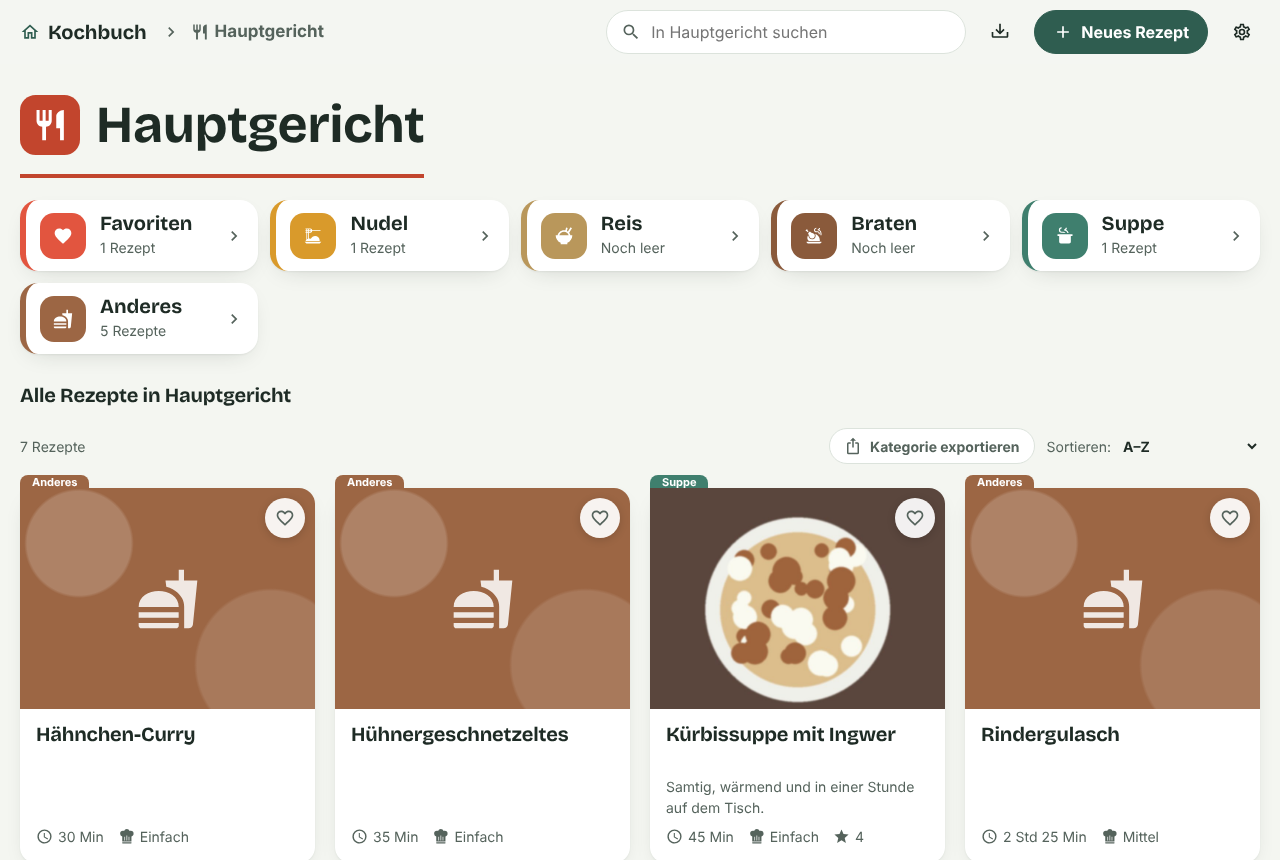
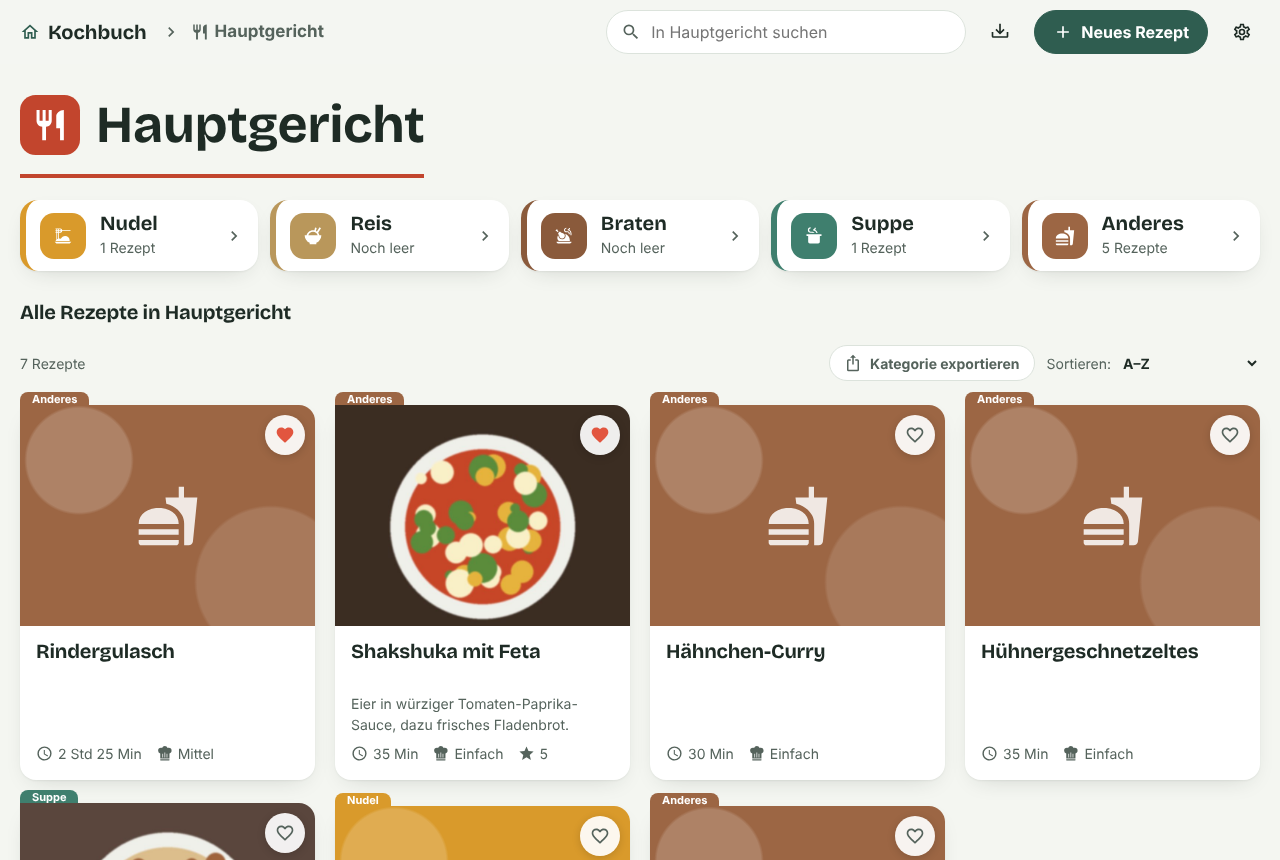
Kochbuch 1.7.2: Favoriten oben statt eigener Kachel
Claude-Session: https://claude.ai/code/session_01DF6XX5kd56oiDmByM1R25Q

diff --git a/custom_components/kochbuch/frontend/kochbuch-panel.js b/custom_components/kochbuch/frontend/kochbuch-panel.js
@@ -1,7 +1,7 @@
 /* Kochbuch – Panel für Home Assistant
  * https://github.com/domiundergroun/Kochrezepte
  */
-const KB_VERSION = "1.7.1";
+const KB_VERSION = "1.7.2";
 
 /* ------------------------------------------------------------------ Hilfen */
 const esc = (v) =>
@@ -1062,7 +1062,9 @@ class KochbuchPanel extends HTMLElement {
       rating: (a, b) => (b.rating || 0) - (a.rating || 0) || a.title.localeCompare(b.title, "de"),
       cooked: (a, b) => (b.cooked || []).length - (a.cooked || []).length,
     };
-    return list.sort(sorts[this.sort] || sorts.title);
+    // Favoriten stehen immer oben, darunter die gewählte Sortierung
+    const by = sorts[this.sort] || sorts.title;
+    return list.sort((a, b) => (b.favorite ? 1 : 0) - (a.favorite ? 1 : 0) || by(a, b));
   }
 
   _slug(filter) { return { all: "alle", fav: "favoriten", none: "ohne" }[filter] || filter; }
@@ -1139,9 +1141,8 @@ class KochbuchPanel extends HTMLElement {
     const backBtn = backTo ? `<button class="icon-btn back-btn" data-action="cat" data-id="${esc(backTo.id)}" title="Zurück zu ${esc(backTo.name)}" aria-label="Zurück zu ${esc(backTo.name)}"><ha-icon icon="mdi:arrow-left"></ha-icon></button>` : "";
     const crumbs = backBtn + this._crumbs(`${fav ? crumbCat(c) : ""}${here}`);
     const fam = c ? this._family(c.id) : new Set();
-    const favCount = c ? this.recipes.filter((r) => r.favorite && fam.has(r.category)).length : 0;
     const subs = c && !parent && !fav ? this._subs(c.id) : [];
-    const favTile = c && !fav && (!parent || favCount) ? `<button class="sub-tile fav-tile" style="--c:var(--kb-tomato)" data-action="cat-fav" data-id="${esc(c.id)}"><span class="sub-icon"><ha-icon icon="mdi:heart"></ha-icon></span><span><b>Favoriten</b><small>${favCount ? `${favCount} ${favCount === 1 ? "Rezept" : "Rezepte"}` : "Noch keine"}</small></span><ha-icon class="go" icon="mdi:chevron-right"></ha-icon></button>` : "";
+    const favTile = "";
     const subTiles = favTile || subs.length ? `<section class="sub-shelf" aria-label="Unterkategorien">${favTile}${subs.map((x) => {
       const n = this.recipes.filter((r) => r.category === x.id).length;
       return `<button class="sub-tile" style="--c:${esc(x.color)}" data-action="cat" data-id="${esc(x.id)}"><span class="sub-icon"><ha-icon icon="${esc(x.icon)}"></ha-icon></span><span><b>${esc(x.name)}</b><small>${n ? `${n} ${n === 1 ? "Rezept" : "Rezepte"}` : "Noch leer"}</small></span><ha-icon class="go" icon="mdi:chevron-right"></ha-icon></button>`;

diff --git a/custom_components/kochbuch/const.py b/custom_components/kochbuch/const.py
@@ -1,7 +1,7 @@
 """Konstanten für die Kochbuch-Integration."""
 
 DOMAIN = "kochbuch"
-VERSION = "1.7.1"
+VERSION = "1.7.2"
 
 STORAGE_KEY = "kochbuch.rezepte"
 STORAGE_VERSION = 1

diff --git a/README.md b/README.md
@@ -2,14 +2,14 @@
 
 Euer gemeinsames Rezeptbuch direkt in Home Assistant – mit eigener Seite in der Seitenleiste, Kochmodus fürs Küchentablet und Einkaufsliste per Knopfdruck.
 
-![Version](https://img.shields.io/badge/Version-1.7.1-2F5D50) ![HACS](https://img.shields.io/badge/HACS-Custom-F2B134)
+![Version](https://img.shields.io/badge/Version-1.7.2-2F5D50) ![HACS](https://img.shields.io/badge/HACS-Custom-F2B134)
 
 ## Was es kann
 
 - **Rezepte sammeln** mit Foto, Kategorie, Schlagworten, Zeiten, Schwierigkeit, Bewertung, Zutaten (mit Zwischenüberschriften) und Arbeitsschritten
 - **Startseite mit euren Kategorien** als große Kacheln – sonst nichts. Das Kochbuch startet leer, ohne Beispielrezepte
 - **Kategorien mit Unterkategorien**: Vorspeisen; Hauptgericht (Nudel, Reis, Braten, Suppe, Anderes); Beilage (Salat); Backen (Kuchen, Plätzchen); Nachspeise – alles in den Einstellungen änderbar
-- **Favoriten in jeder Kategorie**: eigene Kachel „Favoriten“ in jeder Haupt- und Unterkategorie
+- **Favoriten zuerst**: mit dem Herz markierte Rezepte stehen in jeder Kategorie oben
 - **Kategorien verwalten** in den Einstellungen: Haupt- und Unterkategorien hinzufügen, umbenennen, Farbe und Symbol wählen, Reihenfolge ändern, löschen (Rezepte einer gelöschten Kategorie werden in eine andere verschoben)
 - **Rezeptlisten pro Kategorie** mit Suche (auch nach Zutaten) und Sortierung; oben führt „Kochbuch“ jederzeit zurück zur Startseite
 - **Portionen umrechnen** – alle Mengen passen sich automatisch an (inkl. ½, ¼ …)
@@ -64,6 +64,7 @@ anzahl: 4          # bei favoriten/neu
 
 | Version | Änderungen |
 |---|---|
+| 1.7.2 | Keine Favoriten-Kacheln mehr; Favoriten stehen in jeder Rezeptliste oben |
 | 1.7.1 | Unterkategorien zeigen nur noch sich selbst als Überschrift (Pfeil führt zur Oberkategorie zurück); Favoriten-Kachel in Unterkategorien nur, wenn dort Favoriten gesetzt sind |
 | 1.7.0 | Neue Kategorie-Struktur (Vorspeisen, Hauptgericht mit Nudel/Reis/Braten/Suppe/Anderes, Beilage mit Salat, Backen mit Kuchen/Plätzchen, Nachspeise) inkl. automatischer Umstellung bestehender Rezepte; Favoriten in jeder Kategorie |
 | 1.6.2 | Rezeptkarten überall gleich groß (lange Namen werden getrennt); Kopfzeile auf dem Handy: Suchfeld in eigener Zeile, Knöpfe brechen nicht mehr um |
